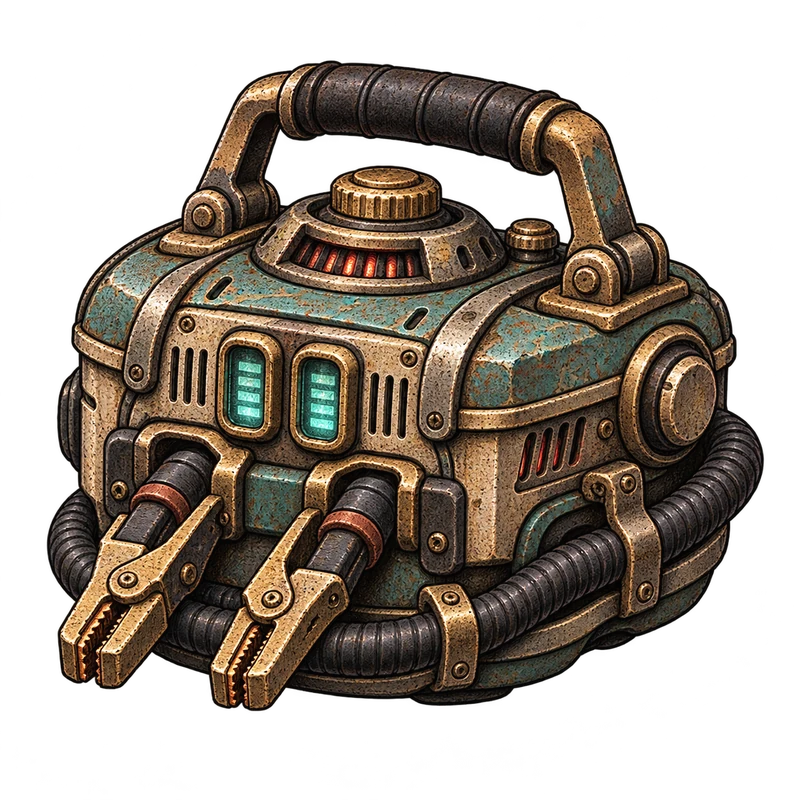
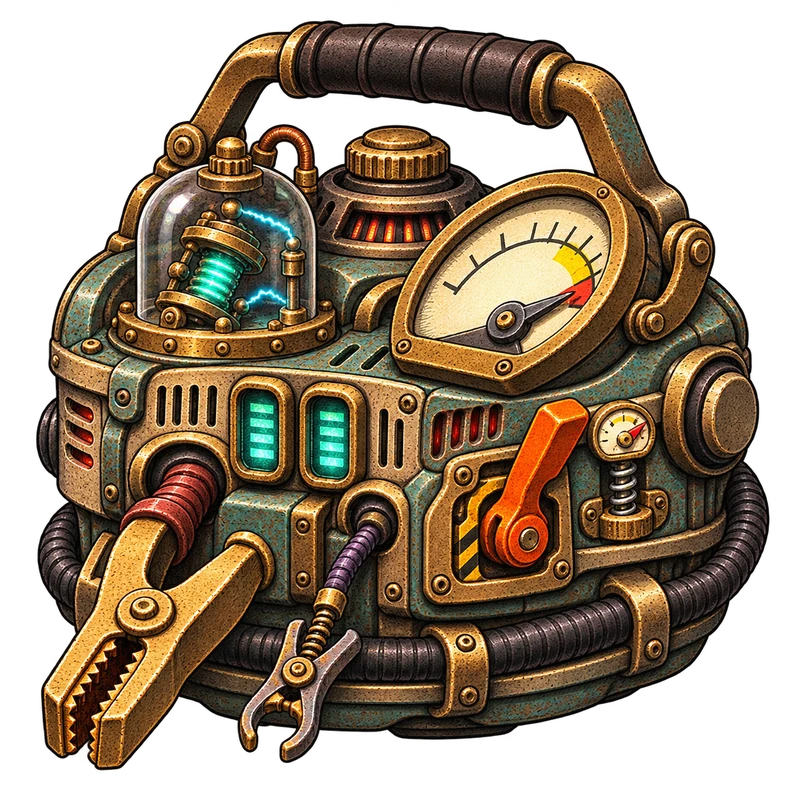
release: expand Chief Engineer rules and refresh art v1.1.5

diff --git a/src/client/game-rules.tsx b/src/client/game-rules.tsx
@@ -1,6 +1,6 @@
 import type { ReactNode } from 'react';
 import { possibleRoleCounts, stationRolePool } from '../games/station/view-model';
-import { StationRulesGallery } from './StationRulesGallery';
+import { ChiefEngineerRulesGallery, StationRulesGallery } from './StationRulesGallery';
 import { CipherRulesGallery } from './CipherRulesGallery';
 function Chapter({ id, title, children }: { id: string; title: string; children: ReactNode }) {
   return <section className="rules-chapter panel" id={id}><h2>{title}</h2>{children}</section>;
@@ -16,7 +16,7 @@ export function StationRules() {
       <p>身分牌洗勻後每人取一張；多出的一張不發出，也不公開。因此 4 人、7 人局的實際陣營比例不一定相同。身分整局固定，畫面列出的可能人數包含你自己。</p>
     </Chapter>
     <Chapter id="goals" title="2. 角色、設備與勝負">
-      <p>N 代表本局參與人數。房主可在開局前加入大工程師，預設關閉。啟用後，一名維修員會成為大工程師，陣營人數配置不變。</p>
+      <p>N 代表本局參與人數。</p>
       <StationRulesGallery />
       <p>勝敗屬於整個陣營。若第四輪最後一次檢修找到最後一張維修模組，維修員仍然獲勝；牌面結果先於輪數限制判定。</p>
     </Chapter>
@@ -35,15 +35,26 @@ export function StationRules() {
         <li>翻開的牌留在原位置，公開顯示種類。該玩家的暗牌數量與秘密資訊中的剩餘設備數量會扣除這張牌。</li>
         <li>若任務未結束，工具交給<strong>剛剛被檢修設備的玩家</strong>，由他選下一張。</li></ol>
       <p>本輪檢修順序與全部任務紀錄都會保留。提示音可開關，音量可調整為 0～100%；預設 50%，0% 為靜音。</p>
-      <h3>反應爐救星</h3>
-      <p>檢修階段尚有額度時，大工程師可對任一張暗牌使用反應爐救星，整局一次。使用會公開大工程師身分，保留本輪檢修額度與目前行動者。</p>
-      <ul><li>反應爐危機會解除並成為「已穩定的反應爐」，後續檢修比照穩定設備。</li>
-        <li>穩定設備或維修模組會先向全場公開，再和持有者的其餘暗牌重洗。已檢修的牌留在原位。</li></ul>
     </Chapter>
     <Chapter id="review" title="5. 換輪與任務結束">
       <p>每輪全場合計可檢修 N 張牌，並非每人各檢修一次。若尚未分出勝負，第一至第三輪的額度用完時會保留最後牌桌，等待<strong>所有參與玩家確認</strong>；畫面會列出還沒確認的人，觀戰者不需確認。</p>
       <p>全員確認後，把全部未翻開的牌重新洗勻、平均分配。第二、三、四輪每人分別收到 4、3、2 張牌，再經過查看資訊與宣稱階段。工具保留給上一輪最後被檢修的玩家。</p>
       <p>分出勝負時公開身分，保留終局牌桌至少 8 秒後返回原等待室。房間、邀請與歷史仍在，大家重新準備便能再玩；也可以先換一款遊戲。</p>
+    </Chapter>
+    <Chapter id="chief-engineer" title="額外規則・大工程師詳細規則">
+      <p>房主可在開局前加入大工程師，預設關閉。開啟時，隨機一名維修員成為大工程師，陣營人數照原配置。</p>
+      <ChiefEngineerRulesGallery />
+      <h3>如何使用反應爐救星</h3>
+      <ol>
+        <li>進入檢修階段且本輪還有檢修額度時，在「我的秘密資訊」按「使用反應爐救星」。即使檢修工具在別人手上，也可以使用。</li>
+        <li>選擇任一張未檢修設備，可以選自己的牌。按「確認使用」後，全桌會知道你是大工程師。</li>
+      </ol>
+      <p>反應爐救星整局可使用一次，使用後由目前的行動者繼續檢修，剩餘檢修額度照舊。</p>
+      <h3>牌面結果</h3>
+      <ul>
+        <li><strong>反應爐危機</strong>：危機解除，原位置留下「已穩定的反應爐」。這張牌仍可在之後檢修，效果與穩定設備相同。</li>
+        <li><strong>穩定設備或維修模組</strong>：向全桌公開牌面，然後把這張牌與該玩家的其餘未檢修牌一起重洗。已檢修的牌留在原位，公開的維修模組仍須經正式檢修才會計入進度。</li>
+      </ul>
     </Chapter>
   </>;
 }

diff --git a/src/client/StationRulesGallery.tsx b/src/client/StationRulesGallery.tsx
@@ -8,13 +8,16 @@ import chiefImage from './assets/art/ink-chief-engineer.webp';
 import saviorImage from './assets/art/ink-reactor-savior.webp';
 import stabilizedImage from './assets/art/ink-stabilized-reactor.webp';
 
-const entries: readonly RoleGalleryEntry[] = [
+const chiefEngineerEntries: readonly RoleGalleryEntry[] = [
   { id: 'chief-engineer', name: '大工程師', image: chiefImage, category: '角色 · 維修員陣營', tone: 'friendly',
     description: '房主開啟後必定有一名大工程師。他持有反應爐救星，使用時公開身分。' },
   { id: 'reactor-savior', name: '反應爐救星', image: saviorImage, category: '道具 · 整局一次', tone: 'friendly',
-    description: '其實是反應爐救星九號，問起前八號，大工程師就開始收工具。' },
+    description: '其實是反應爐救星九號，問起前八號，大工程師就開始收工具。檢修階段尚有額度時，在「我的秘密資訊」按「使用反應爐救星」，選一張未檢修的設備牌，再按「確認使用」。' },
   { id: 'stabilized', name: '已穩定的反應爐', image: stabilizedImage, category: '設備 · 檢修牌', tone: 'neutral',
     description: '反應爐危機解除後留下的設備。後續檢修視同穩定設備。' },
+];
+
+const entries: readonly RoleGalleryEntry[] = [
   {
     id: 'engineer', name: '維修員', image: engineerImage,
     category: '角色 · 維修員陣營', tone: 'friendly',
@@ -44,4 +47,8 @@ const entries: readonly RoleGalleryEntry[] = [
 
 export function StationRulesGallery() {
   return <RoleGallery entries={entries} idPrefix="station-guide" />;
+}
+
+export function ChiefEngineerRulesGallery() {
+  return <RoleGallery entries={chiefEngineerEntries} idPrefix="station-guide" />;
 }

diff --git a/src/client/game-registry.tsx b/src/client/game-registry.tsx
@@ -258,7 +258,7 @@ export const clientGames: Record<GameID, ClientGameDefinition> & Record<string, 
     LobbyOptions: StationOptions,
     Rules: RuleSummary,
     DetailedRules: StationRules,
-    chapters: [['setup', '人數與配置'], ['goals', '角色與設備圖鑑'], ['round', '每輪流程'], ['inspect', '如何檢修'], ['review', '換輪與結束']],
+    chapters: [['setup', '人數與配置'], ['goals', '角色與設備圖鑑'], ['round', '每輪流程'], ['inspect', '如何檢修'], ['review', '換輪與結束'], ['chief-engineer', '大工程師詳細規則']],
     gallery: { chapter: 'goals', label: '角色與設備圖鑑' },
     createPoster: ({ G, info, step, totalSteps }) => createReplayPoster({ G: G as StationObserverState, players: info.players, step, totalSteps }),
     soundAdapter: (G, id) => ({ revision: G.round * 1000 + G.log.length, events: G.log.map((entry: unknown) => JSON.stringify(entry)),
